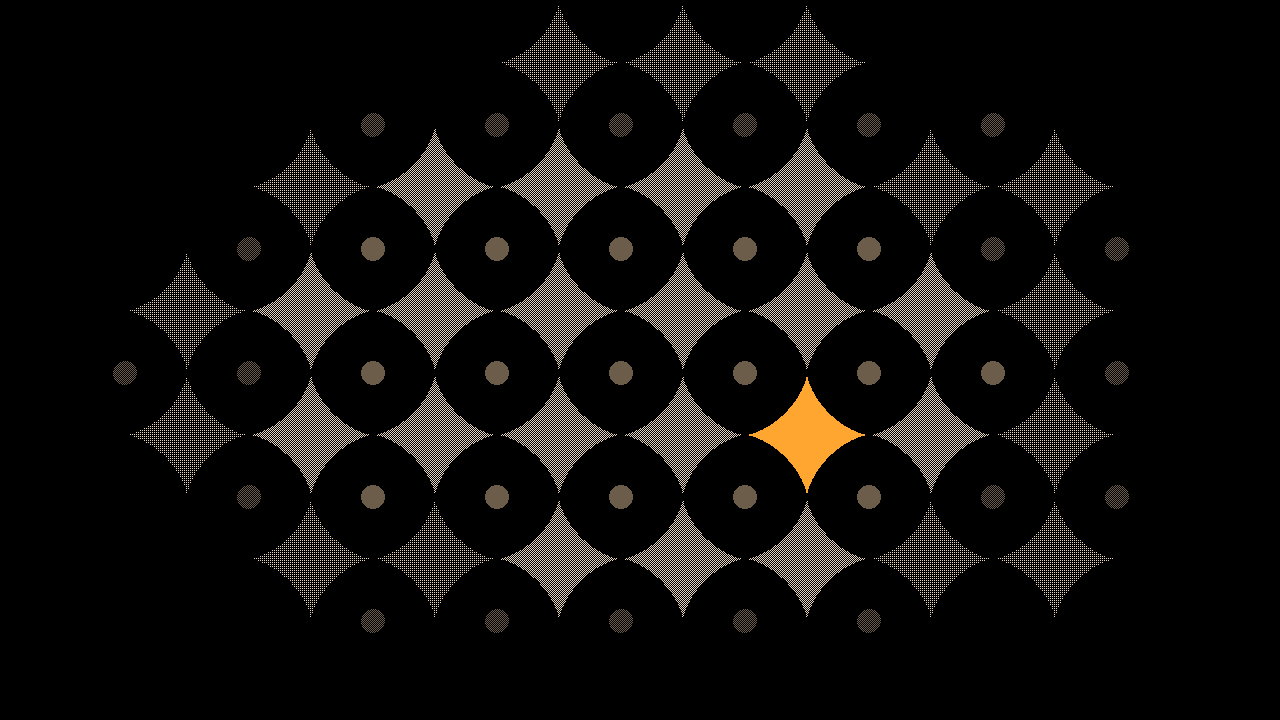
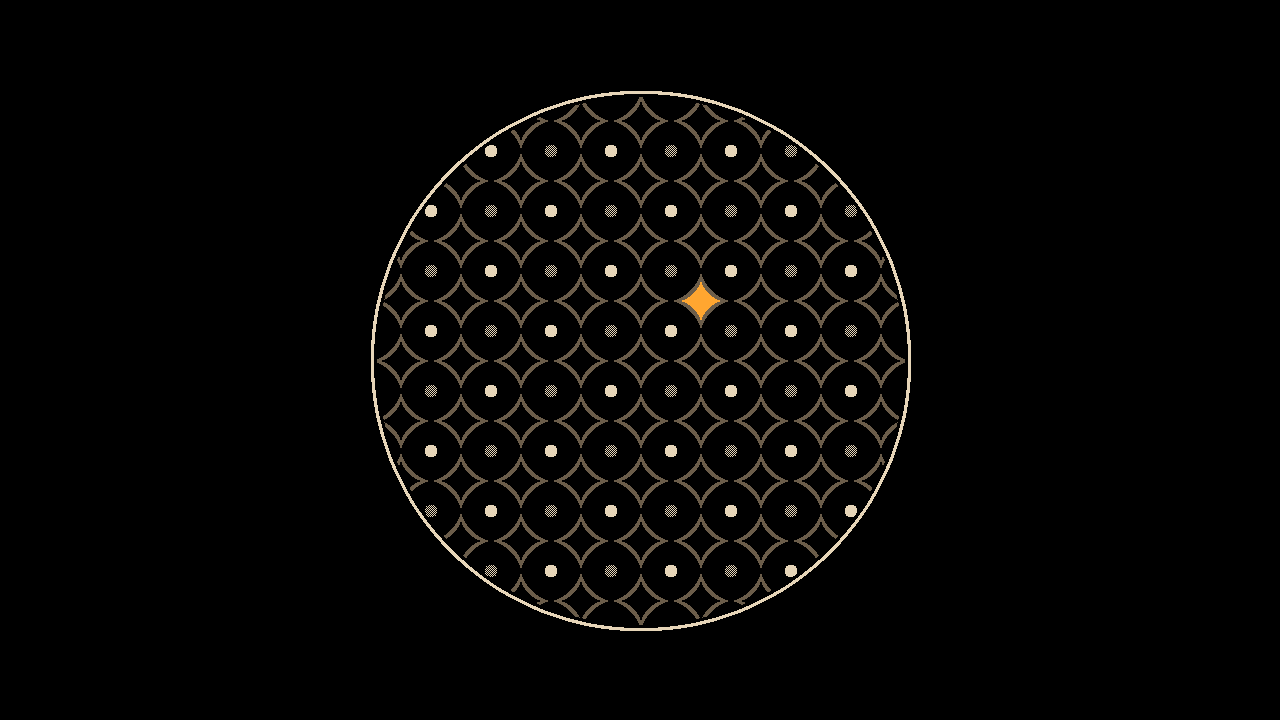
Radio grilles (4170, 4180, 4200); amber accents on stems and kites; TV glare along the glass; five pieces retired

diff --git a/README.md b/README.md
@@ -10,7 +10,7 @@ omarchy-theme-install https://github.com/limehawk/omarchy-amber-oled-theme
 
 ## What's in it
 
-- **118 wallpapers at 4K**, hand drawn in code as Bayer-dithered dots and ASCII glyphs, in parchment, walnut and amber on `#000000`.
+- **113 wallpapers at 4K**, hand drawn in code as Bayer-dithered dots and ASCII glyphs, in parchment, walnut and amber on `#000000`.
 - **A terminal palette to match**: parchment text, amber accent, and warm mid-century colours that keep diffs and errors readable.
 - **A boot unlock logo**: the Sputnik chandelier, its bulbs amber, above the disk password (pick it in Style → Unlock).
 - Every other app (Hyprland, the shell, btop, Neovim, VS Code, Chromium and the rest) is generated by Omarchy from one `colors.toml`.
@@ -222,12 +222,6 @@ Hi-fi gear and atomic-age lamps, lit like solid things.
 ![Tube top: Heater seen from above](screenshots/walls/1190-tubetop.png)
 1190 · Tube top
 
-![Knob: Chicken-head on 0-10](screenshots/walls/1200-knob.png)
-1200 · Knob
-
-![Rotary: Dial, AMBER 5-1958](screenshots/walls/1210-rotary.png)
-1210 · Rotary
-
 ![Ball clock: Nelson clock, ten past ten](screenshots/walls/1220-ballclock.png)
 1220 · Ball clock
 
@@ -276,14 +270,8 @@ Flat mid-century textile patterns.
 ![Kites: Spars and bowed tails](screenshots/walls/4060-kites.png)
 4060 · Kites
 
-![Mod squares: Offset outlines](screenshots/walls/4070-modsquares.png)
-4070 · Mod squares
-
 ![Breeze block: Pierced screen wall](screenshots/walls/4080-breezeblock.png)
 4080 · Breeze block
-
-![Ogee: Onion lattice, stars](screenshots/walls/4090-ogee.png)
-4090 · Ogee
 
 ![Squircles: Atomic quilt print](screenshots/walls/4100-squircles.png)
 4100 · Squircles
@@ -306,16 +294,16 @@ Flat mid-century textile patterns.
 ![TV shapes: Rounded screens](screenshots/walls/4160-tvshapes.png)
 4160 · TV shapes
 
-![Circle stars: Circles, stars between](screenshots/walls/4170-circlestars.png)
+![Circle stars: Radio grille, rings and stars](screenshots/walls/4170-circlestars.png)
 4170 · Circle stars
 
-![Quatrefoil: Four-petal tiles](screenshots/walls/4180-quatrefoil.png)
+![Quatrefoil: Cathedral radio grille](screenshots/walls/4180-quatrefoil.png)
 4180 · Quatrefoil
 
 ![Skewed blocks: Leaning blocks](screenshots/walls/4190-skewrects.png)
 4190 · Skewed blocks
 
-![Concave stars: Stars tip to tip](screenshots/walls/4200-concavestars.png)
+![Concave stars: Round speaker grille](screenshots/walls/4200-concavestars.png)
 4200 · Concave stars
 
 ![Eyes: Concentric ovals](screenshots/walls/4210-eyes.png)
@@ -326,9 +314,6 @@ Flat mid-century textile patterns.
 
 ![Atom scatter: Boomerangs and atoms](screenshots/walls/4230-atomscatter.png)
 4230 · Atom scatter
-
-![Tilted squares: Overlapping pairs](screenshots/walls/4240-tiltsquares.png)
-4240 · Tilted squares
 
 ![Pill chains: Stems swelling into lozenges](screenshots/walls/4250-pillchains.png)
 4250 · Pill chains
